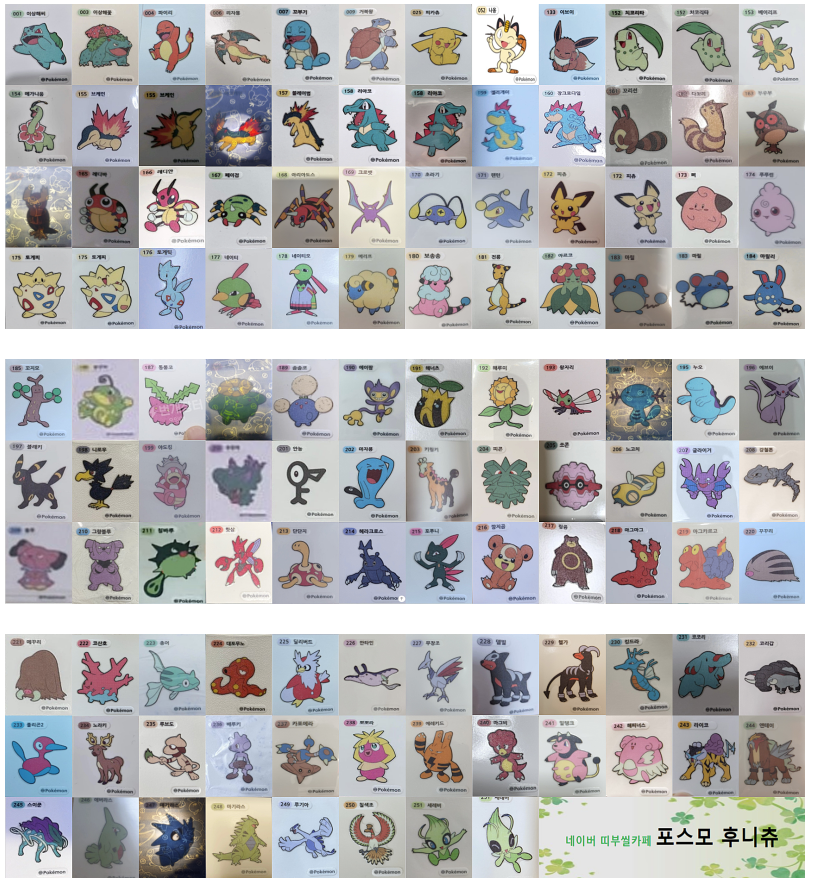
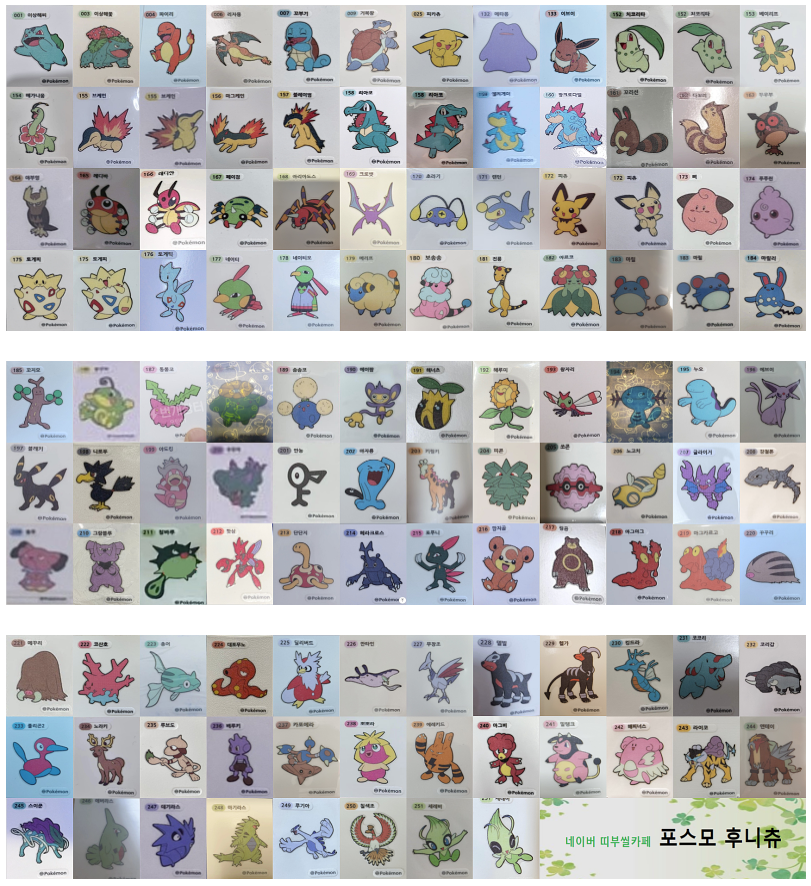
Update 2nd.png

Changed region(s): [[0.0, 0.0, 1.0, 1.0], [0.2466, 0.7017, 0.2774, 0.7322]]

diff --git a/index.html b/index.html
@@ -48,122 +48,122 @@
             .img23 {background-position: -310px -507px;}
             .img24 {background-position: -403px -507px;}
             .img25 {background-position: -496px -507px;}
-            .img201 {background-position: -5px -5px}
-            .img202 {background-position: -88px -5px;}
-            .img203 {background-position: -171px -5px;}
+            .img201 {background-position: -8px -5px}
+            .img202 {background-position: -92px -5px;}
+            .img203 {background-position: -175px -5px;}
             .img204 {background-position: -258px -5px;}
             .img205 {background-position: -341px -5px;}
             .img206 {background-position: -426px -5px;}
-            .img207 {background-position: -507px -5px;}
-            .img208 {background-position: -592px -5px;}
-            .img209 {background-position: -678px -5px;}
-            .img210 {background-position: -759px -5px;}
-            .img211 {background-position: -845px -5px;}
-            .img212 {background-position: -928px -5px;}
-            .img301 {background-position: -5px -119px}
-            .img302 {background-position: -88px -119px;}
-            .img303 {background-position: -171px -119px;}
+            .img207 {background-position: -512px -5px;}
+            .img208 {background-position: -598px -5px;}
+            .img209 {background-position: -683px -5px;}
+            .img210 {background-position: -764px -5px;}
+            .img211 {background-position: -849px -5px;}
+            .img212 {background-position: -932px -5px;}
+            .img301 {background-position: -8px -119px}
+            .img302 {background-position: -92px -119px;}
+            .img303 {background-position: -175px -119px;}
             .img304 {background-position: -258px -119px;}
             .img305 {background-position: -341px -119px;}
             .img306 {background-position: -426px -119px;}
-            .img307 {background-position: -507px -119px;}
-            .img308 {background-position: -592px -119px;}
-            .img309 {background-position: -678px -119px;}
-            .img310 {background-position: -759px -119px;}
-            .img311 {background-position: -845px -119px;}
-            .img312 {background-position: -928px -119px;}
-            .img401 {background-position: -5px -231px}
-            .img402 {background-position: -88px -231px;}
-            .img403 {background-position: -171px -231px;}
+            .img307 {background-position: -512px -119px;}
+            .img308 {background-position: -598px -119px;}
+            .img309 {background-position: -683px -119px;}
+            .img310 {background-position: -764px -119px;}
+            .img311 {background-position: -849px -119px;}
+            .img312 {background-position: -932px -119px;}
+            .img401 {background-position: -8px -231px}
+            .img402 {background-position: -92px -231px;}
+            .img403 {background-position: -175px -231px;}
             .img404 {background-position: -258px -231px;}
             .img405 {background-position: -341px -231px;}
             .img406 {background-position: -426px -231px;}
-            .img407 {background-position: -507px -231px;}
-            .img408 {background-position: -592px -231px;}
-            .img409 {background-position: -678px -231px;}
-            .img410 {background-position: -759px -231px;}
-            .img411 {background-position: -845px -231px;}
-            .img412 {background-position: -928px -231px;}
-            .img501 {background-position: -5px -339px}
-            .img502 {background-position: -88px -339px;}
-            .img503 {background-position: -171px -339px;}
+            .img407 {background-position: -512px -231px;}
+            .img408 {background-position: -598px -231px;}
+            .img409 {background-position: -683px -231px;}
+            .img410 {background-position: -764px -231px;}
+            .img411 {background-position: -849px -231px;}
+            .img412 {background-position: -932px -231px;}
+            .img501 {background-position: -8px -339px}
+            .img502 {background-position: -92px -339px;}
+            .img503 {background-position: -175px -339px;}
             .img504 {background-position: -258px -339px;}
             .img505 {background-position: -341px -339px;}
             .img506 {background-position: -426px -339px;}
-            .img507 {background-position: -507px -339px;}
-            .img508 {background-position: -592px -339px;}
-            .img509 {background-position: -678px -339px;}
-            .img510 {background-position: -759px -339px;}
-            .img511 {background-position: -845px -339px;}
-            .img512 {background-position: -928px -339px;}
-            .img601 {background-position: -5px -499px}
-            .img602 {background-position: -88px -499px;}
-            .img603 {background-position: -171px -499px;}
+            .img507 {background-position: -512px -339px;}
+            .img508 {background-position: -598px -339px;}
+            .img509 {background-position: -683px -339px;}
+            .img510 {background-position: -764px -339px;}
+            .img511 {background-position: -849px -339px;}
+            .img512 {background-position: -932px -339px;}
+            .img601 {background-position: -8px -499px}
+            .img602 {background-position: -92px -499px;}
+            .img603 {background-position: -175px -499px;}
             .img604 {background-position: -258px -499px;}
             .img605 {background-position: -341px -499px;}
             .img606 {background-position: -426px -499px;}
-            .img607 {background-position: -507px -499px;}
-            .img608 {background-position: -592px -499px;}
-            .img609 {background-position: -678px -499px;}
-            .img610 {background-position: -759px -499px;}
-            .img611 {background-position: -845px -499px;}
-            .img612 {background-position: -928px -499px;}
-            .img701 {background-position: -5px -612px}
-            .img702 {background-position: -88px -612px;}
-            .img703 {background-position: -171px -612px;}
+            .img607 {background-position: -512px -499px;}
+            .img608 {background-position: -598px -499px;}
+            .img609 {background-position: -683px -499px;}
+            .img610 {background-position: -764px -499px;}
+            .img611 {background-position: -849px -499px;}
+            .img612 {background-position: -932px -499px;}
+            .img701 {background-position: -8px -612px}
+            .img702 {background-position: -92px -612px;}
+            .img703 {background-position: -175px -612px;}
             .img704 {background-position: -258px -612px;}
             .img705 {background-position: -341px -612px;}
             .img706 {background-position: -426px -612px;}
-            .img707 {background-position: -507px -612px;}
-            .img708 {background-position: -592px -612px;}
-            .img709 {background-position: -678px -612px;}
-            .img710 {background-position: -759px -612px;}
-            .img711 {background-position: -845px -612px;}
-            .img712 {background-position: -928px -612px;}
-            .img801 {background-position: -5px -720px}
-            .img802 {background-position: -88px -720px;}
-            .img803 {background-position: -171px -720px;}
+            .img707 {background-position: -512px -612px;}
+            .img708 {background-position: -598px -612px;}
+            .img709 {background-position: -683px -612px;}
+            .img710 {background-position: -764px -612px;}
+            .img711 {background-position: -849px -612px;}
+            .img712 {background-position: -932px -612px;}
+            .img801 {background-position: -8px -720px}
+            .img802 {background-position: -92px -720px;}
+            .img803 {background-position: -175px -720px;}
             .img804 {background-position: -258px -720px;}
             .img805 {background-position: -341px -720px;}
             .img806 {background-position: -426px -720px;}
-            .img807 {background-position: -507px -720px;}
-            .img808 {background-position: -592px -720px;}
-            .img809 {background-position: -678px -720px;}
-            .img810 {background-position: -759px -720px;}
-            .img811 {background-position: -845px -720px;}
-            .img812 {background-position: -928px -720px;}
-            .img901 {background-position: -5px -880px}
-            .img902 {background-position: -88px -880px;}
-            .img903 {background-position: -171px -880px;}
+            .img807 {background-position: -512px -720px;}
+            .img808 {background-position: -598px -720px;}
+            .img809 {background-position: -683px -720px;}
+            .img810 {background-position: -764px -720px;}
+            .img811 {background-position: -849px -720px;}
+            .img812 {background-position: -932px -720px;}
+            .img901 {background-position: -8px -880px}
+            .img902 {background-position: -92px -880px;}
+            .img903 {background-position: -175px -880px;}
             .img904 {background-position: -258px -880px;}
             .img905 {background-position: -341px -880px;}
             .img906 {background-position: -426px -880px;}
-            .img907 {background-position: -507px -880px;}
-            .img908 {background-position: -592px -880px;}
-            .img909 {background-position: -678px -880px;}
-            .img910 {background-position: -759px -880px;}
-            .img911 {background-position: -845px -880px;}
-            .img912 {background-position: -928px -880px;}
-            .img1001 {background-position: -5px -990px}
-            .img1002 {background-position: -88px -990px;}
-            .img1003 {background-position: -171px -990px;}
+            .img907 {background-position: -512px -880px;}
+            .img908 {background-position: -598px -880px;}
+            .img909 {background-position: -683px -880px;}
+            .img910 {background-position: -764px -880px;}
+            .img911 {background-position: -849px -880px;}
+            .img912 {background-position: -932px -880px;}
+            .img1001 {background-position: -8px -990px}
+            .img1002 {background-position: -92px -990px;}
+            .img1003 {background-position: -175px -990px;}
             .img1004 {background-position: -258px -990px;}
             .img1005 {background-position: -341px -990px;}
             .img1006 {background-position: -426px -990px;}
-            .img1007 {background-position: -507px -990px;}
-            .img1008 {background-position: -592px -990px;}
-            .img1009 {background-position: -678px -990px;}
-            .img1010 {background-position: -759px -990px;}
-            .img1011 {background-position: -845px -990px;}
-            .img1012 {background-position: -928px -990px;}
-            .img1101 {background-position: -5px -1104px}
-            .img1102 {background-position: -88px -1104px;}
-            .img1103 {background-position: -171px -1104px;}
+            .img1007 {background-position: -512px -990px;}
+            .img1008 {background-position: -598px -990px;}
+            .img1009 {background-position: -683px -990px;}
+            .img1010 {background-position: -764px -990px;}
+            .img1011 {background-position: -849px -990px;}
+            .img1012 {background-position: -932px -990px;}
+            .img1101 {background-position: -8px -1104px}
+            .img1102 {background-position: -92px -1104px;}
+            .img1103 {background-position: -175px -1104px;}
             .img1104 {background-position: -258px -1104px;}
             .img1105 {background-position: -341px -1104px;}
             .img1106 {background-position: -426px -1104px;}
-            .img1107 {background-position: -507px -1104px;}
-            .img1108 {background-position: -592px -1104px;}
+            .img1107 {background-position: -512px -1104px;}
+            .img1108 {background-position: -598px -1104px;}
             body {background-color: black;}
             .btnDiv {margin-top:20px;}
             .title {text-align:center; font-size:20px; margin-bottom:20px; color:white;}
